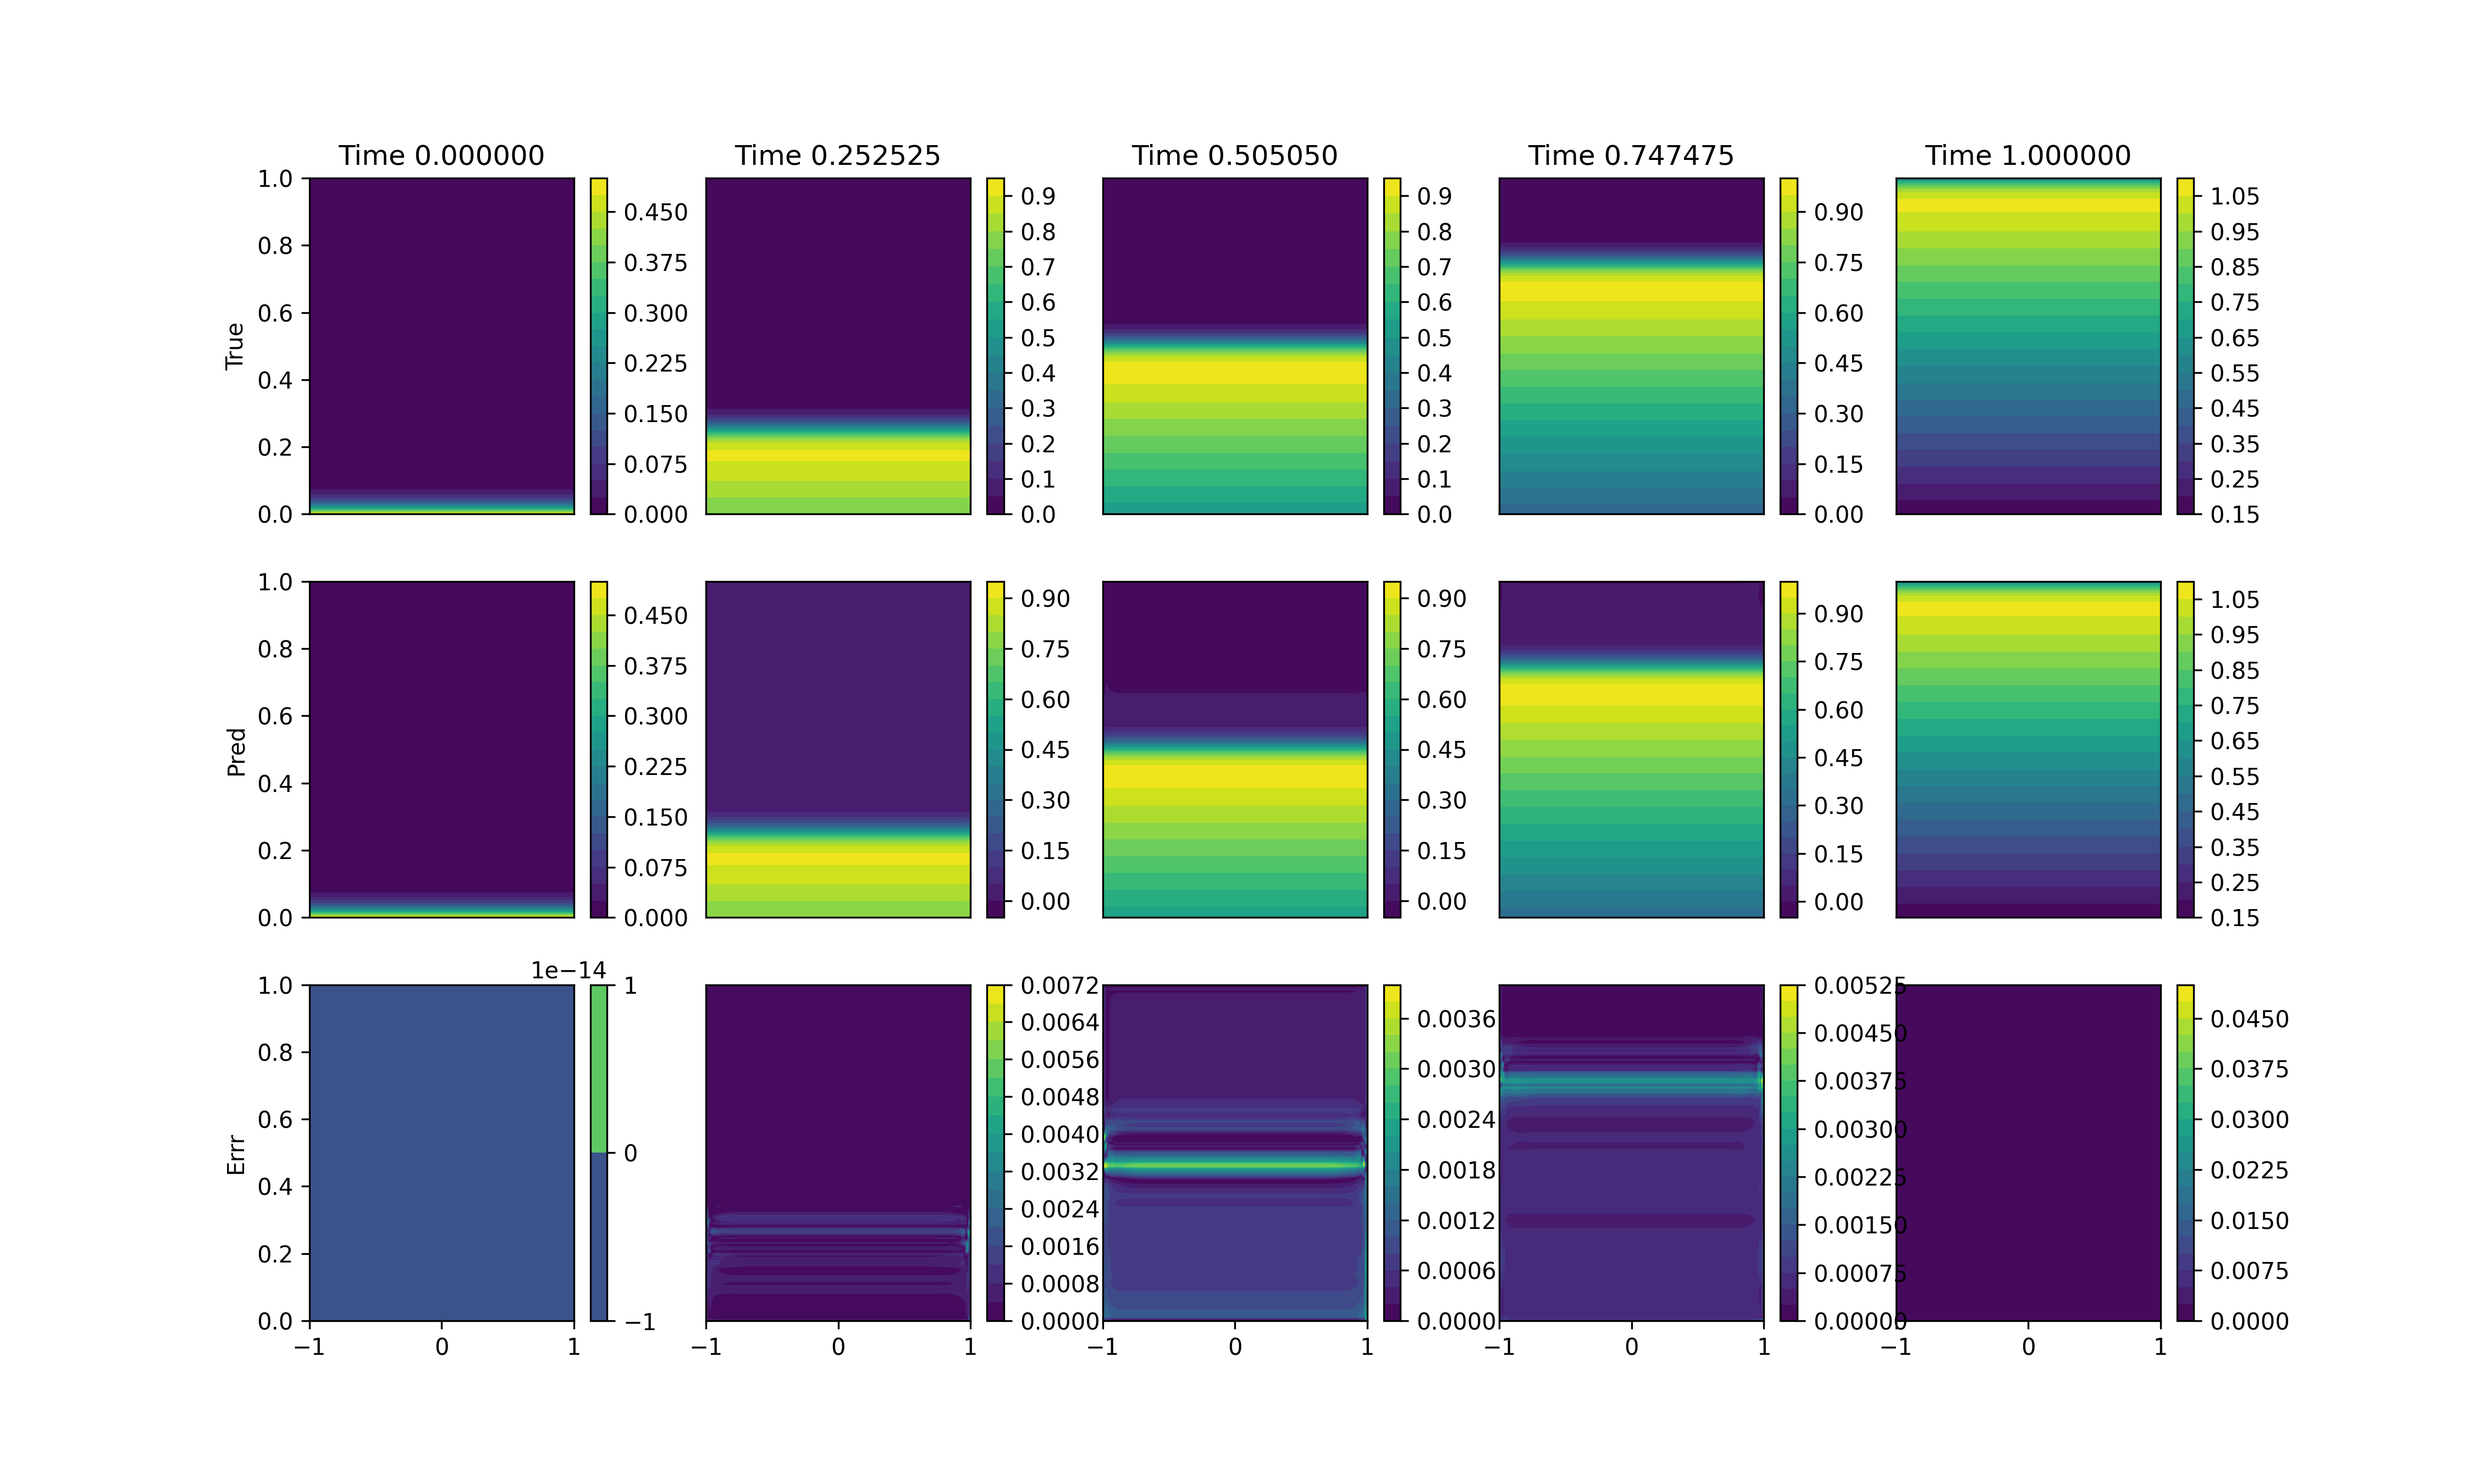
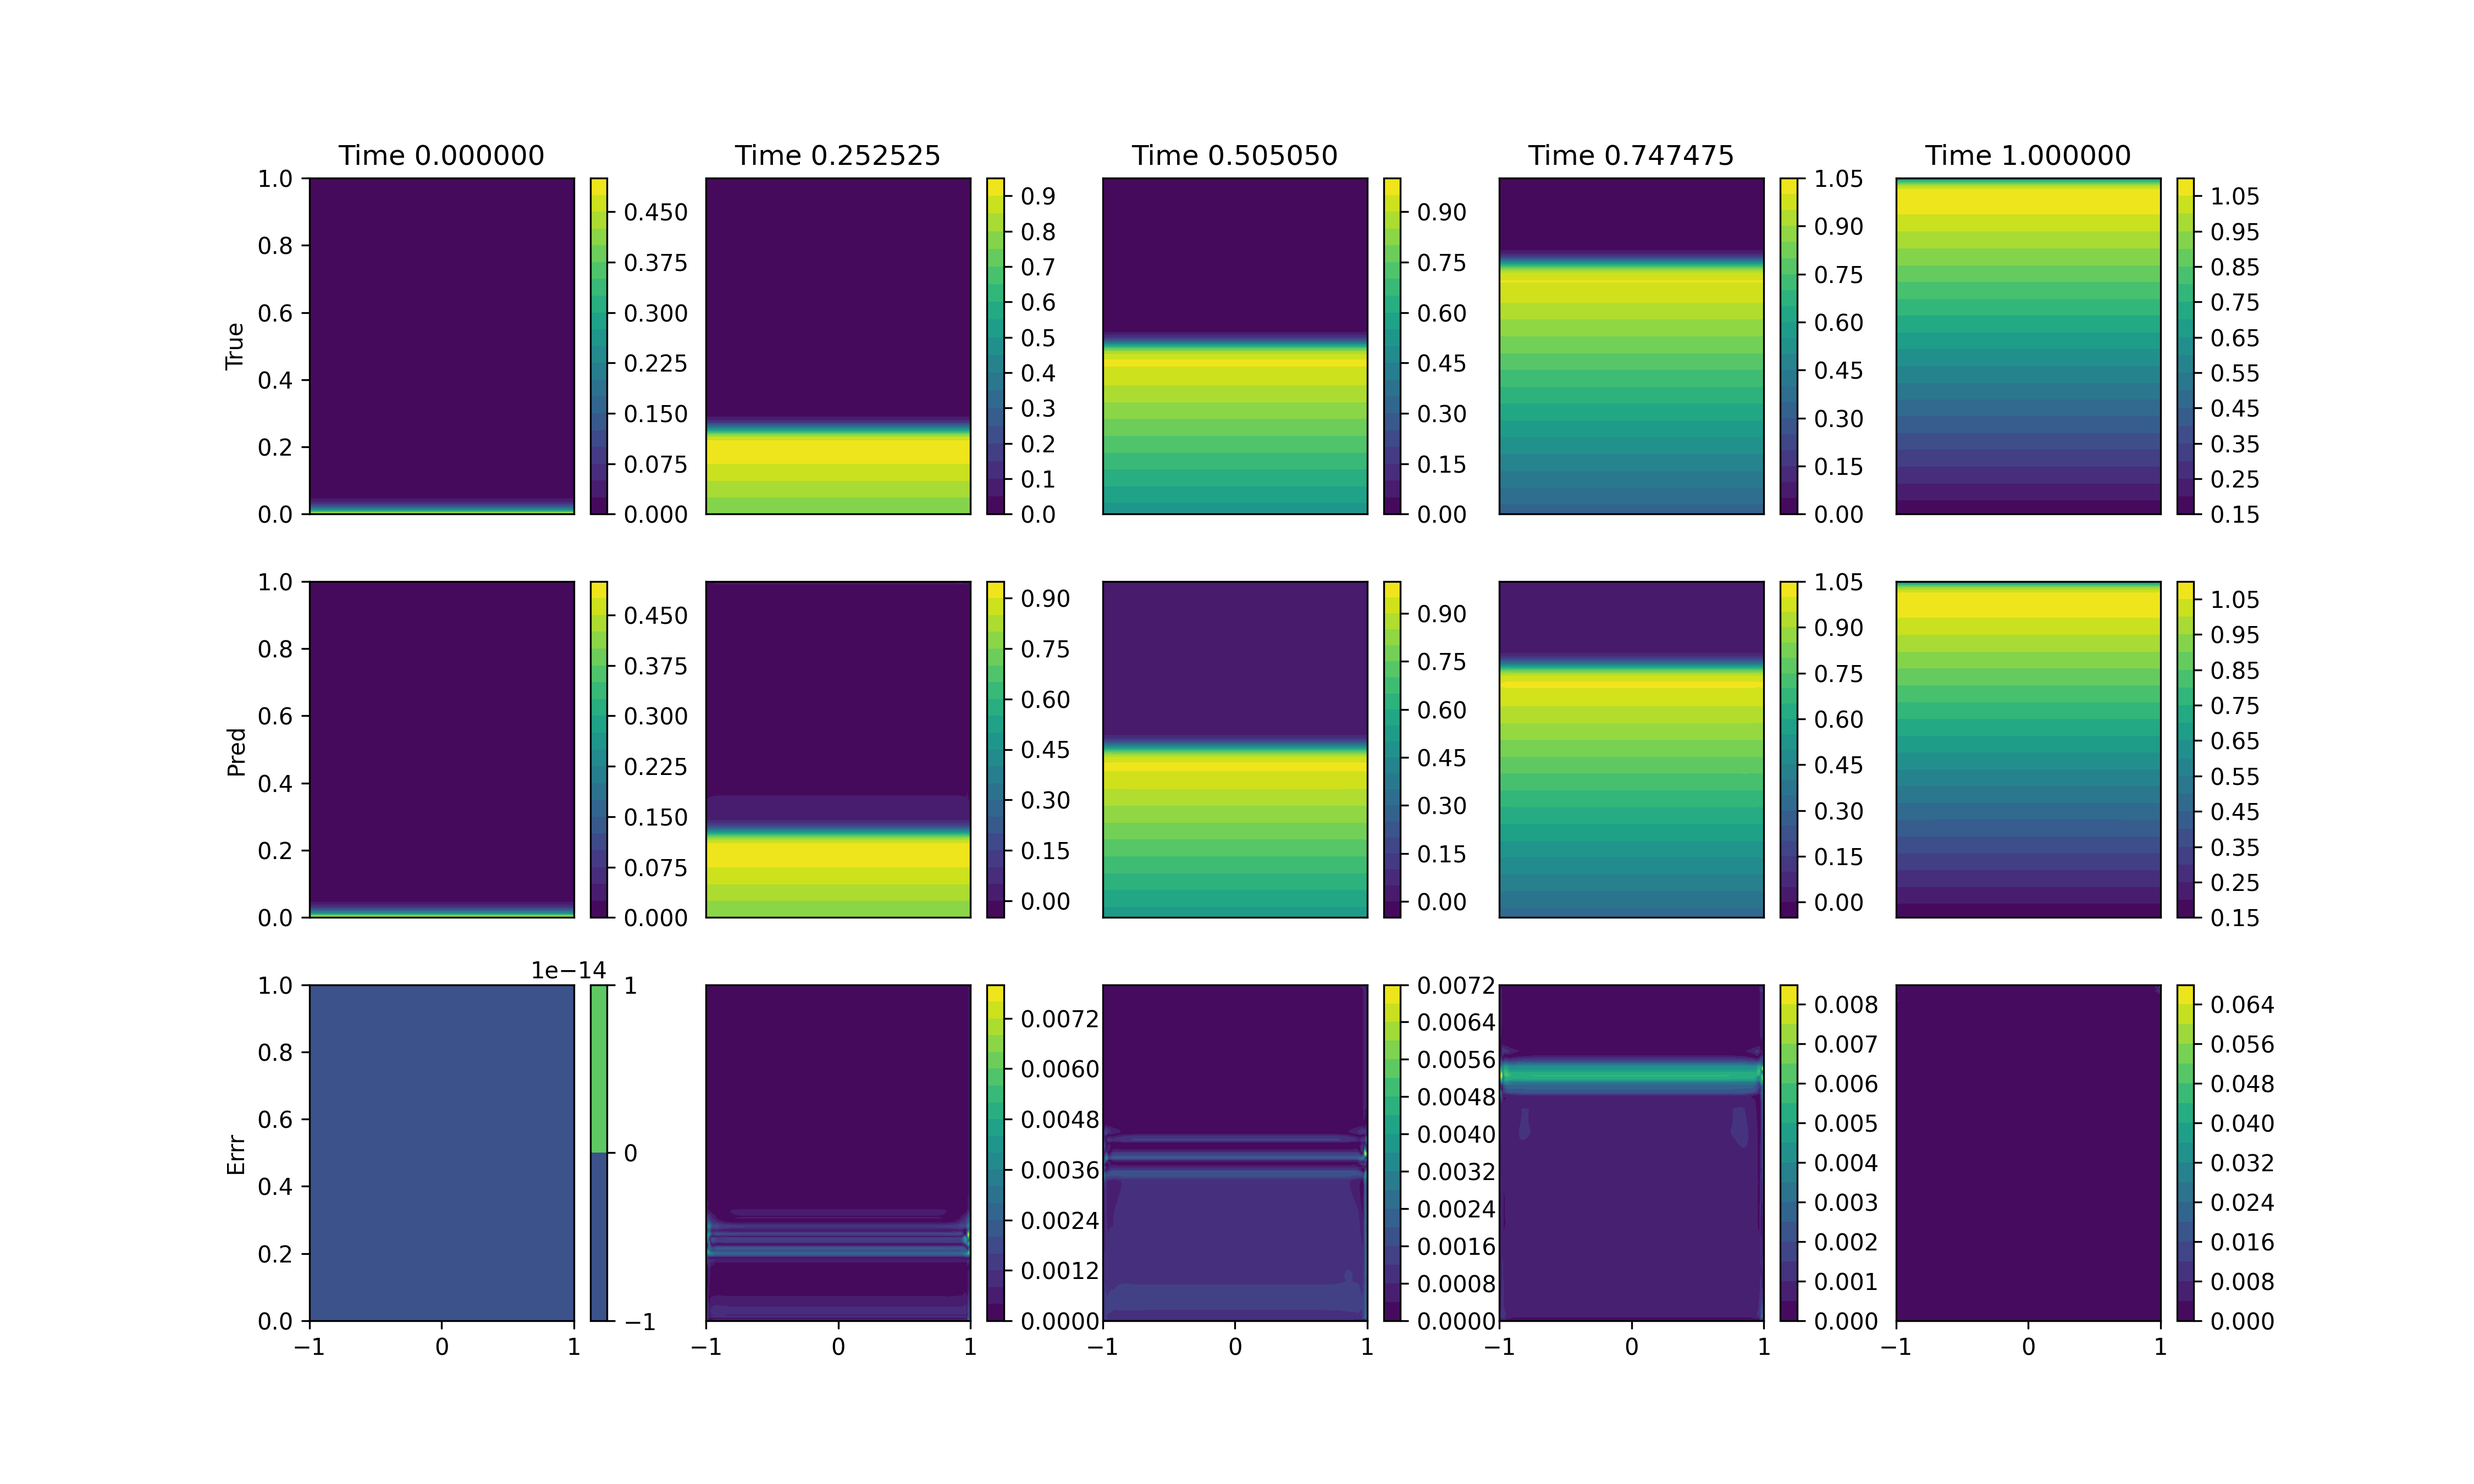
getting better results with moving mask

diff --git a/sandbox/__main__.py b/sandbox/__main__.py
@@ -73,53 +73,35 @@ def train_gnn_nextstep(device, outdir, resdir, name, blend=False, train=True):
     # ci, co, k = 2, 1, 3
     # model = MaskedUNet(shape, ci, co, k)
 
-    # # MODEL
-    # ci, co, k = 2, 1, 3
-    # model = MaskedUNet(shape, ci, co, k)
-    #
-    # # TRAIN
-    # if train:
-    #     train_loop(model, data, device=device, _batch_size=1)
-    #     torch.save(model.to("cpu").state_dict(), modelfile)
-    #
-    # # VISUALIZE
-    # model.eval()
-    # model.load_state_dict(torch.load(modelfile, weights_only=True))
-    #
-    # with torch.no_grad():
-    #     xztT, _ = data[:]
-    #
-    #     pred1 = (model(xztT) + xztT[:, -1].unsqueeze(1)).squeeze(1)
-    #     pred1 = torch.cat([xztT[0, -1].unsqueeze(0), pred1], dim=0)
-    #
-    #     fig1 = shape.plot_compare(pred1)
-    #     fig1.savefig(imagefile1, dpi=300)
-    #
-    #     preds2 = []
-    #     preds2.append(xztT[0, -1].unsqueeze(0))
-    #     for i in range(xztT.shape[0]):
-    #         pred2 = preds2[-1]
-    #         pred2 = pred2 + model(xztT[i].unsqueeze(0)).squeeze(1)
-    #         preds2.append(pred2)
-    #     pred2 = torch.cat(preds2, dim=0)
-    #
-    #     fig2 = shape.plot_compare(pred2)
-    #     fig2.savefig(imagefile2, dpi=300)
-
     return
 
 class MaskedUNet(nn.Module):
     def __init__(self, shape, ci, co, k):
         super().__init__()
 
-        M = shape.final_mask().unsqueeze(0).unsqueeze(0)
-        self.register_buffer('M', M)
+        self.shape = shape
         self.unet = mlutils.UNet(ci, co, k)
-        return
+
+        # M = shape.final_mask().unsqueeze(0).unsqueeze(0)
+        # self.register_buffer('M', M)
+
+    @torch.no_grad()
+    def compute_mask(self, x):
+        x0, z0, t0 = [x[0,c,:,:] for c in range(3)]
+        t1 = t0 + self.shape.dt()
+        M = self.shape.mask(x0, z0, t1)
+
+        # M = self.shape.mask(x0, z0, torch.ones_like(t0))
+
+        return M.unsqueeze(0).unsqueeze(0)
 
     def forward(self, x):
-        x = self.unet(x)
-        return x * self.M
+        y = self.unet(x)
+
+        # M = self.M
+        M = self.compute_mask(x)
+
+        return y * M
 #
 
 def train_cnn_nextstep(device, outdir, resdir, name, blend=False, train=True):
@@ -146,19 +128,19 @@ def train_cnn_nextstep(device, outdir, resdir, name, blend=False, train=True):
     nx, nz, nt = 256, 256, 100
     shape = sandbox.Shape(nx, nz, nt, nw1, nw2, blend=blend)
     data = sandbox.makedata(
-        shape, inputs="tT", outputs="T", datatype="image-nextstep",
+        shape, inputs="xztT", outputs="T", datatype="image-nextstep",
         mask="finaltime",
     )
 
     # MODEL
-    ci, co, k = 2, 1, 3
+    ci, co, k = 4, 1, 3
     model = MaskedUNet(shape, ci, co, k)
 
     # TRAIN
     if train:
         train_loop(model, data, device=device, _batch_size=1)
         torch.save(model.to("cpu").state_dict(), modelfile)
-
+    
     # VISUALIZE
     model.eval()
     model.load_state_dict(torch.load(modelfile, weights_only=True))
@@ -166,19 +148,34 @@ def train_cnn_nextstep(device, outdir, resdir, name, blend=False, train=True):
     with torch.no_grad():
         xztT, _ = data[:]
 
-        pred1 = (model(xztT) + xztT[:, -1].unsqueeze(1)).squeeze(1)
+        pred1 = mlutils.eval_model(xztT, model, device, batch_size=4)
+        pred1 = (pred1 + xztT[:, -1].unsqueeze(1)).squeeze(1)
         pred1 = torch.cat([xztT[0, -1].unsqueeze(0), pred1], dim=0)
+
+        def process(y0, y1):
+            xzt = y0[:, 0:3, :, :]
+            temp = y0[:, -1, :, :].unsqueeze(1) + y1
+            return torch.cat([xzt, temp], dim=1)
+        
+        def save(ys):
+            temps = [y[:, -1, :, :] for y in ys]
+            return torch.cat(temps, dim=0)
+        
+        pred2 = mlutils.autoregressive_rollout(
+            xztT[0].unsqueeze(0), model, len(data),
+            process=process, save=save, device=device,
+        )
+        
+        # preds2 = []
+        # preds2.append(xztT[0, -1].unsqueeze(0))
+        # for i in range(xztT.shape[0]):
+        #     pred2 = preds2[-1]
+        #     pred2 = pred2 + model(xztT[i].unsqueeze(0)).squeeze(1)
+        #     preds2.append(pred2)
+        # pred2 = torch.cat(preds2, dim=0)
 
         fig1 = shape.plot_compare(pred1)
         fig1.savefig(imagefile1, dpi=300)
-
-        preds2 = []
-        preds2.append(xztT[0, -1].unsqueeze(0))
-        for i in range(xztT.shape[0]):
-            pred2 = preds2[-1]
-            pred2 = pred2 + model(xztT[i].unsqueeze(0)).squeeze(1)
-            preds2.append(pred2)
-        pred2 = torch.cat(preds2, dim=0)
 
         fig2 = shape.plot_compare(pred2)
         fig2.savefig(imagefile2, dpi=300)
@@ -403,7 +400,7 @@ def view_shape(resdir, name, blend=False):
 
 if __name__ == "__main__":
 
-    mlutils.set_seed()
+    mlutils.set_seed(123)
 
     parser = argparse.ArgumentParser(description = 'Sandbox')
     parser.add_argument('--gpu_device', default=0, help='GPU device', type=int)
@@ -434,17 +431,17 @@ if __name__ == "__main__":
     # train_mlp(device, outdir, resdir, "alldomain")
     # train_mlp(device, outdir, resdir, "hourglass")
 
-    # train_cnn(device, outdir, resdir, "alldomain")
-    # train_cnn(device, outdir, resdir, "hourglass")
-
     # train_gnn_nextstep(device, outdir, resdir, "alldomain")
     # train_gnn_nextstep(device, outdir, resdir, "hourglass")
 
     # train_cnn_nextstep(device, outdir, resdir, "alldomain", train=False)
     # train_cnn_nextstep(device, outdir, resdir, "hourglass", train=False)
 
-    # train_cnn_nextstep(device, outdir, resdir, "alldomain", blend=True, train=True)
-    # train_cnn_nextstep(device, outdir, resdir, "hourglass", blend=True, train=True)
+    # train_cnn_nextstep(device, outdir, resdir, "alldomain", blend=True, train=False)
+    train_cnn_nextstep(device, outdir, resdir, "hourglass", blend=True, train=True)
+
+    # train_cnn(device, outdir, resdir, "alldomain")
+    # train_cnn(device, outdir, resdir, "hourglass")
 
     # train_scalar_cnn(device, outdir, resdir, "alldomain")
     # train_scalar_cnn(device, outdir, resdir, "hourglass")

diff --git a/sandbox/shape.py b/sandbox/shape.py
@@ -54,29 +54,32 @@ class Shape:
 
         return
 
-    def fields(self, x, z, t, tol=1e-6):
-        radius = self.nw1 * (self.nw2 - torch.sin(torch.pi * z))
-        side_mask_bool = torch.lt(torch.abs(x), radius)
+    def dt(self):
+        return 1 / (self.nt - 1)
 
+    def radius(self, z):
+        return self.nw1 * (self.nw2 - torch.sin(torch.pi * z))
+
+    def side_mask(self, x, z):
+        return torch.lt(torch.abs(x), self.radius(z))
+
+    def time_mask(self, z, t):
         if self.blend:
             d = t - z
-            time_mask = torch.sigmoid(50 * d)
-            time_mask_bool = time_mask > tol
+            return torch.sigmoid(80 * d)
         else:
-            time_mask = torch.lt(z, t)
-            time_mask_bool = time_mask
+            return torch.lt(z, t)
 
-        mask      = side_mask_bool * time_mask
+    def mask(self, x, z, t):
+        return self.side_mask(x, z) * self.time_mask(z, t)
+
+    def sdf(self, x, z, t, tol=1e-6):
+        radius = self.radius(z)
+        side_mask_bool = self.side_mask(x, z) > tol
+        time_mask_bool = self.time_mask(z, t) > tol
+
         mask_bool = side_mask_bool * time_mask_bool
 
-        temp = 1 + z - torch.sin(t)
-        disp = torch.zeros(x.size()) * torch.nan
-
-        # apply mask
-        temp = temp * mask
-        disp = disp * mask
-
-        # SDF
         bdist = torch.abs(z)
         tdist = torch.abs(z - t)
         rdist = torch.abs(torch.abs(x) - radius)
@@ -86,14 +89,25 @@ class Shape:
 
         dist = torch.minimum(bdist, tdist)
         dist = torch.minimum(dist , rdist)
-        sign = 1 - 2 * mask
-        sdf  = dist * sign
+        sign = 1 - 2 * mask_bool
 
-        return mask_bool, temp, disp, sdf
+        return dist * sign
+
+    def fields(self, x, z, t, tol=1e-6):
+        mask = self.mask(x, z, t)
+        temp = 1 + z - torch.sin(t)
+        disp = torch.zeros(x.size()) * torch.nan
+        sdf  = self.sdf(x, z, t, tol=tol)
+
+        temp *= mask
+        disp *= mask
+
+        return mask, temp, disp, sdf
 
     def fields_dense(self):
         t, z, x = torch.meshgrid([self.t, self.z, self.x], indexing='ij')
         fields = self.fields(x, z, t)
+
         return (x, z, t), fields
 
     def final_mask(self):

diff --git a/mlutils/utils.py b/mlutils/utils.py
@@ -1,12 +1,18 @@
 #
 import torch
+from torch import nn
+from torch.utils.data import DataLoader
+
 import numpy as np
 
 import random
 
 __all__ = [
     "set_seed",
+    "select_device",
     "num_parameters",
+    "eval_model",
+    "autoregressive_rollout",
 ]
 
 def set_seed(seed = 0):
@@ -16,6 +22,83 @@ def set_seed(seed = 0):
 
     return
 
-def num_parameters(model):
+def select_device(device=None, verbose=False):
+    if device is None:
+        device = (
+            "cuda" if torch.cuda.is_available()
+            else "mps" if torch.backends.mps.is_available()
+            else "cpu"
+        )
+    if verbose:
+        print(f"using device {device}")
+
+    return device
+
+def num_parameters(model : nn.Module):
     return sum(p.numel() for p in model.parameters())
+
+def eval_model(
+    x : torch.Tensor,
+    model : nn.Module,
+    device=None,
+    batch_size=1,
+    verbose=False,
+):
+
+    device = select_device(device, verbose=verbose)
+
+    model = model.to(device)
+    loader = DataLoader(x, shuffle=False, batch_size=batch_size)
+
+    ys = []
+    for xx in loader:
+        xx = xx.to(device)
+        yy = model(xx).to("cpu")
+
+        del xx
+        ys.append(yy)
+
+    model = model.to("cpu")
+    y = torch.cat(ys, dim=0)
+
+    # clear GPU memory
+    torch.cuda.empty_cache()
+
+    return y
+
+def autoregressive_rollout(
+    x : torch.Tensor,
+    model : nn.Module,
+    num_iters,
+    process=None, # (y0, y1) --> y_next_input, y_save
+    save=None,    # [ys] --> y
+    device=None,
+    verbose=False,
+):
+    if process is None:
+        process = lambda y0, y1 : y1
+    if save is None:
+        save = lambda ys : torch.stack(ys, dim=0)
+
+    device = select_device(device, verbose=verbose)
+
+    ys = [x]
+    y0 = x.to(device)
+    model = model.to(device)
+
+    for iter in range(num_iters):
+        y1 = model(y0)
+        y2 = process(y0, y1)
+
+        ys.append(y2.to("cpu"))
+        y0 = y2
+    #
+
+    model = model.to("cpu")
+    y = save(ys)
+
+    # clear GPU memory
+    torch.cuda.empty_cache()
+
+    return y
 #

diff --git a/mlutils/train.py b/mlutils/train.py
@@ -12,7 +12,7 @@ import math
 import time # todo
 
 # local
-from mlutils.utils import num_parameters
+from mlutils.utils import num_parameters, select_device
 
 __all__ = [
     'Trainer',
@@ -51,14 +51,7 @@ class Trainer:
         # TODO: loader sampler (replacement = True)
         # check out minigpt for reference on adding callbacks
 
-        if device is None:
-            device = (
-                "cuda" if torch.cuda.is_available()
-                else "mps" if torch.backends.mps.is_available()
-                else "cpu"
-            )
-
-        print(f"using device {device}")
+        device = select_device(device, verbose=True)
 
         # DATA
         if _batch_size is None:
